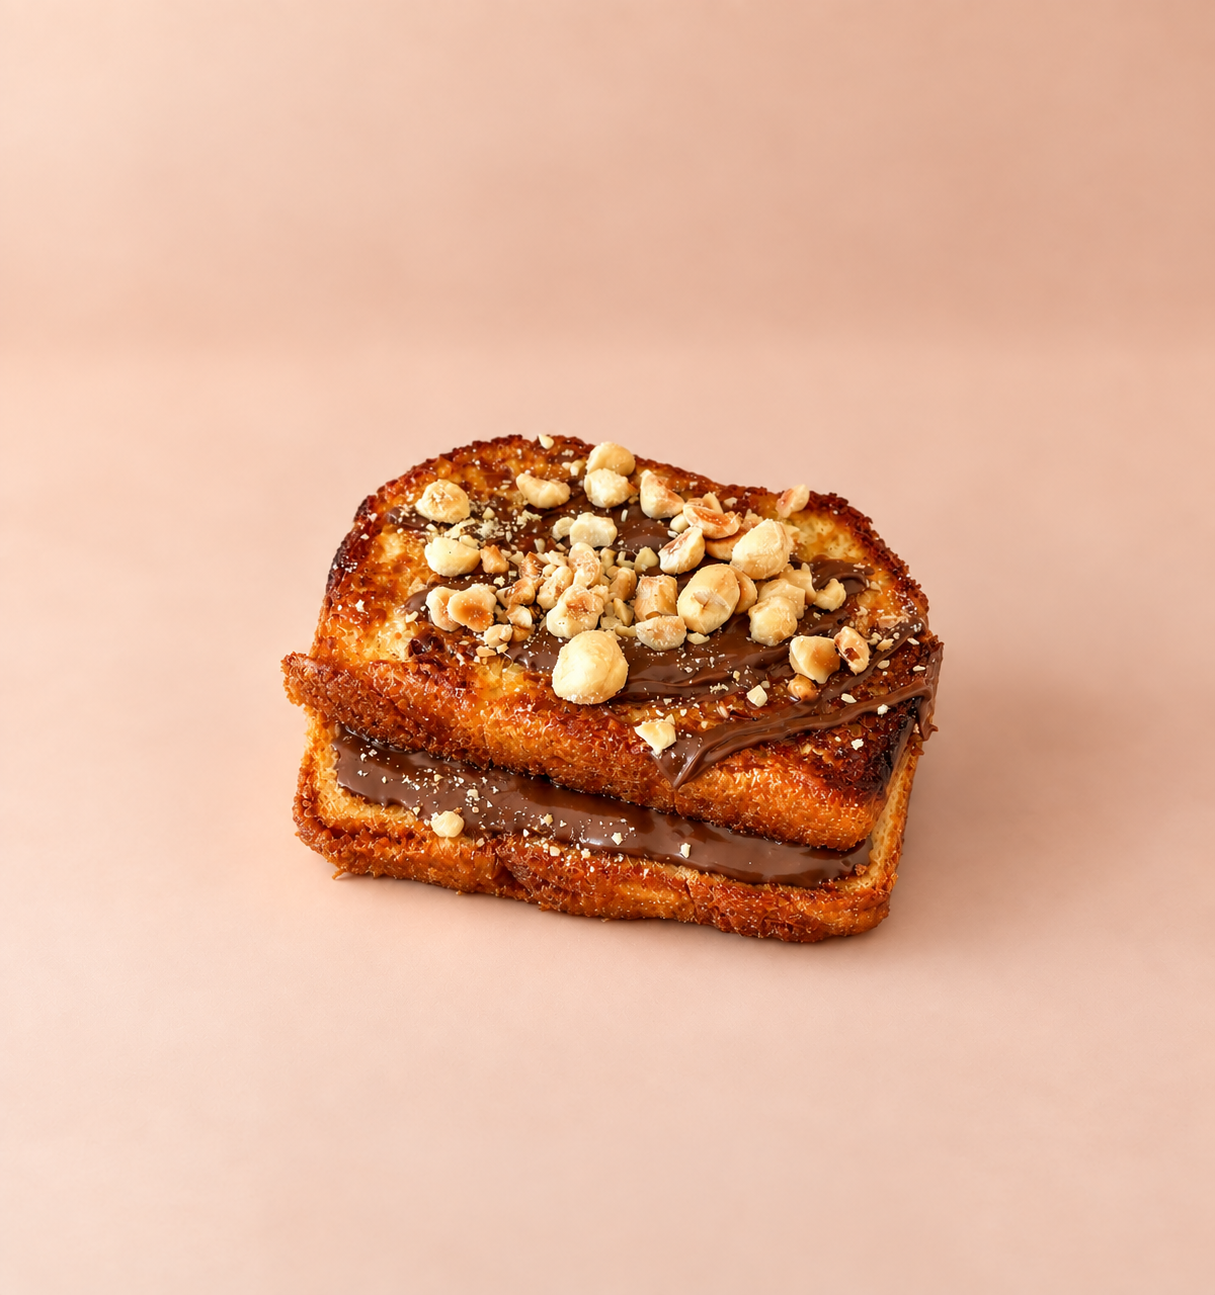
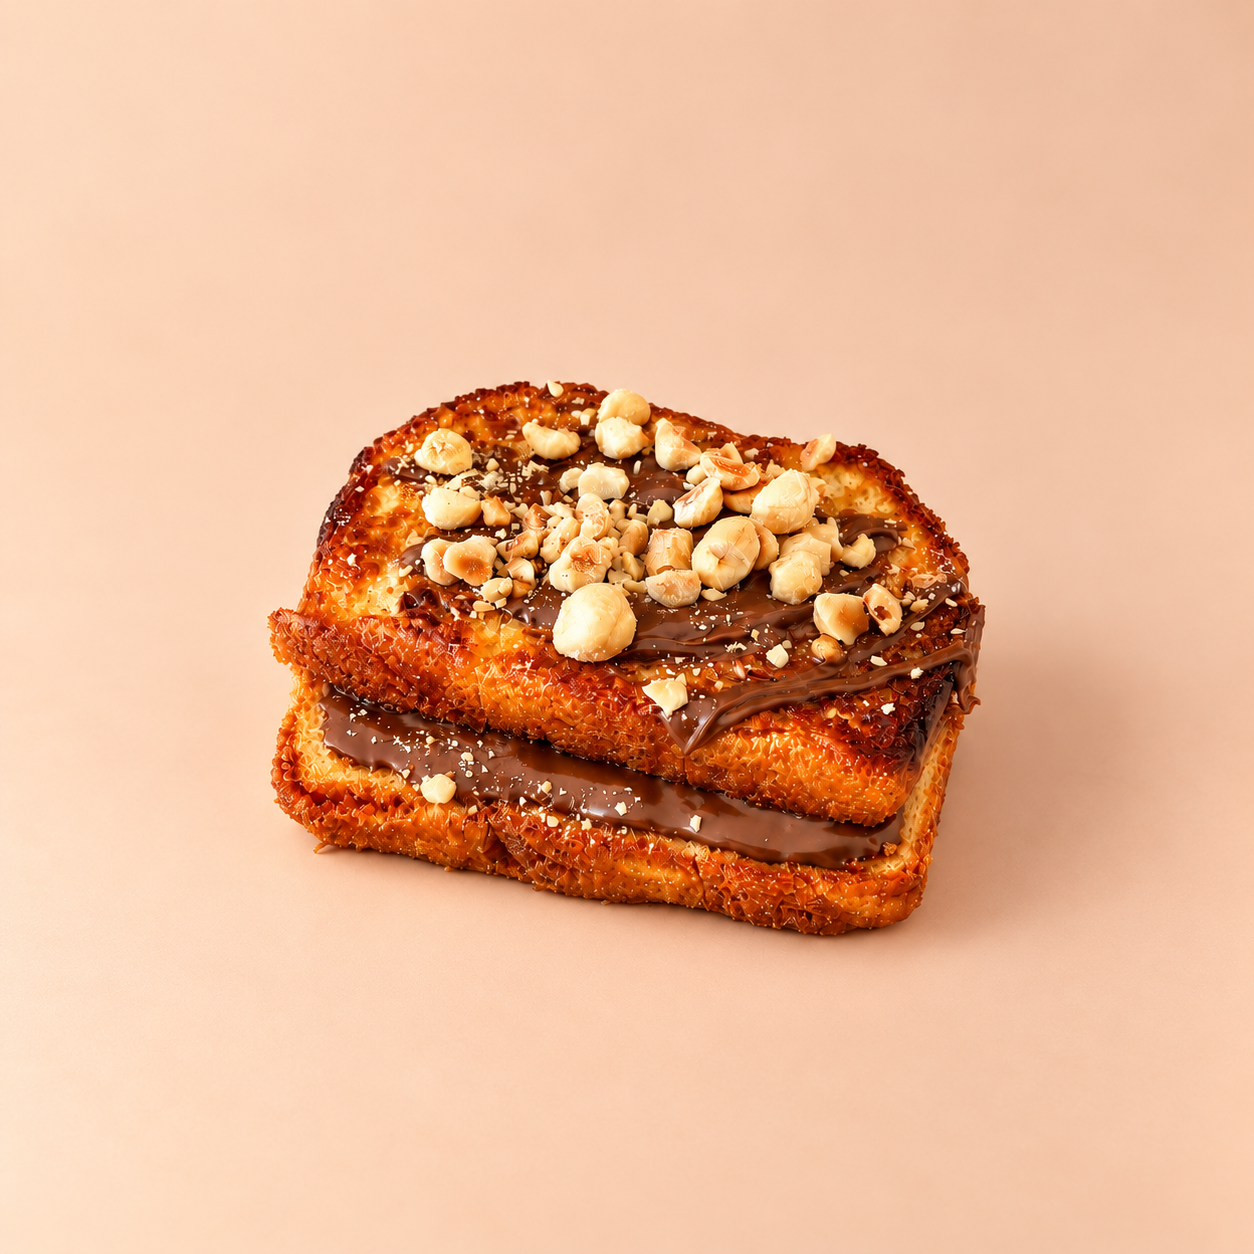
Brioche Perdue Gourmande : image → brioche-gourmande.png

Changed region(s): [[0.2132, 0.2799, 0.7918, 0.7775]]

diff --git a/src/data/products.ts b/src/data/products.ts
@@ -821,7 +821,7 @@ export const allProducts: Product[] = [
     name_en: "Indulgent French Toast",
     price: "7,50€",
     category: "Le Sucré",
-    img: "/brioche-gourmande.webp",
+    img: "/brioche-gourmande.png",
     desc: "",
     composition: ["Brioche au lait et beurre", "Nutella", "Eclats de noisettes grillées"],
     composition_en: ["Pure butter Nanterre brioche", "Nutella", "Toasted hazelnut bits"],

diff --git a/src/pages/CartePage.tsx b/src/pages/CartePage.tsx
@@ -216,7 +216,7 @@ const produits: Record<string, { id: string; name: string; price: string; img: s
       id: "brioche-perdue",
       name: "Brioche Perdue Gourmande",
       price: "7,50€",
-      img: "/brioche-gourmande.webp",
+      img: "/brioche-gourmande.png",
     },
     {
       id: "brioche-perdue-caramel",
